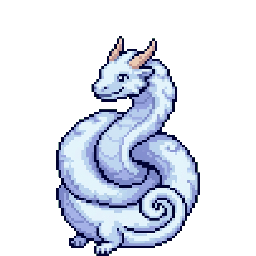
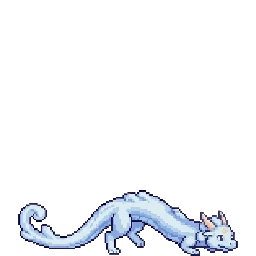
Restore cloud dragon poses and align hats with heads

diff --git a/src/petArt.ts b/src/petArt.ts
@@ -8,13 +8,13 @@ type AnchorRow = readonly [HeadAnchor, HeadAnchor, HeadAnchor, HeadAnchor];
 const h = (x: number, y: number, width = 27): HeadAnchor => ({ x, y, width });
 export const PET_HEAD_ANCHORS: Record<PetSpecies, readonly AnchorRow[]> = {
   cat: [
-    [h(47,21),h(29,48),h(23,47),h(31,61)], [h(43,22),h(28,52),h(20,49),h(29,60)],
-    [h(43,20),h(29,50),h(20,52),h(30,57)], [h(40,21),h(27,51),h(23,49),h(28,59)],
-    [h(42,22),h(28,52),h(23,49),h(31,61)], [h(47,20),h(28,52),h(23,47),h(31,58)],
+    [h(47,27),h(30,54),h(21,47),h(36,63)], [h(43,28),h(30,57),h(20,49),h(34,62)],
+    [h(43,26),h(30,55),h(20,50),h(35,61)], [h(40,27),h(29,56),h(20,43),h(32,62)],
+    [h(42,28),h(30,57),h(20,47),h(35,63)], [h(47,26),h(30,57),h(20,46),h(34,62)],
   ],
   munchkin: [
-    [h(48,21),h(28,49),h(75,53),h(29,59)], [h(72,30),h(28,53),h(20,47),h(28,60)],
-    [h(26,39),h(27,52),h(23,47),h(30,59)], [h(28,27),h(27,52),h(26,48),h(29,60)],
+    [h(48,27),h(30,55),h(75,52),h(34,62)], [h(72,30),h(28,53),h(20,47),h(28,60)],
+    [h(26,39),h(27,52),h(23,47),h(30,59)], [h(28,33),h(27,56),h(20,41),h(27,63)],
     [h(27,24),h(27,51),h(23,49),h(24,57)], [h(26,39),h(27,52),h(22,50),h(27,59)],
   ],
   monkey: [
@@ -30,7 +30,7 @@ export const PET_HEAD_ANCHORS: Record<PetSpecies, readonly AnchorRow[]> = {
   dragon: [
     [h(70,26,26),h(35,64,24),h(72,54,22),h(63,34,26)], [h(70,27,26),h(76,70,24),h(76,60,22),h(68,32,26)],
     [h(66,41,24),h(22,71,22),h(75,62,22),h(68,30,24)], [h(74,28,24),h(68,60,24),h(79,56,22),h(72,32,26)],
-    [h(67,32,26),h(73,31,24),h(78,58,22),h(68,33,26)], [h(50,26,22),h(53,51,20),h(62,27,19),h(57,24,20)],
+    [h(67,32,26),h(73,31,24),h(78,58,22),h(68,33,26)], [h(84,87,13),h(54,54,25),h(14,70,13),h(62,27,24)],
   ],
   trex: [
     [h(34,21),h(33,30),h(33,23),h(34,24)], [h(35,23),h(77,75),h(31,30),h(36,23)],
@@ -45,7 +45,7 @@ const HEAD_WIDTHS: Record<PetSpecies, readonly (readonly [number, number, number
   munchkin: [[34,29,20,25],[32,29,19,25],[31,29,20,26],[31,29,20,25],[31,29,21,25],[31,29,19,25]],
   monkey: [[33,31,32,32],[35,31,26,30],[34,33,34,33],[32,29,32,30],[35,29,27,30],[32,28,32,30]],
   chicken: [[35,35,31,35],[35,35,34,35],[35,35,31,35],[35,35,32,35],[35,35,31,35],[35,35,32,35]],
-  dragon: [[26,24,22,26],[26,24,22,26],[24,22,22,24],[24,24,22,26],[26,24,22,26],[22,20,19,20]],
+  dragon: [[26,24,22,26],[26,24,22,26],[24,22,22,24],[24,24,22,26],[26,24,22,26],[13,25,13,24]],
   trex: [[32,31,31,32],[32,27,30,32],[32,28,31,31],[32,28,31,31],[32,29,32,32],[31,28,31,31]],
 };
 export function headAnchor(species: PetSpecies, skin: number, pose: PetPose): HeadAnchor {
@@ -53,4 +53,10 @@ export function headAnchor(species: PetSpecies, skin: number, pose: PetPose): He
   const index = Number.isInteger(skin) && skin >= 0 && skin < rows.length ? skin : 0;
   const poseIndex = Math.max(0, PET_POSES.indexOf(pose));
   return { ...rows[index][poseIndex], width: HEAD_WIDTHS[species][index][poseIndex] };
+}
+
+// Las posturas originales de Nube tienen cabezas de tamaños muy distintos.
+// Reducimos las dos más grandes sin deformar ni recortar las ilustraciones.
+export function petPoseScale(species: PetSpecies, skin: number, pose: PetPose): number {
+  return species === 'dragon' && skin === 5 ? ({ sentado: 1, durmiendo: 0.52, andando: 1, jugando: 0.55 } as const)[pose] : 1;
 }

diff --git a/src/components/PetGame.tsx b/src/components/PetGame.tsx
@@ -3,7 +3,7 @@ import { ArrowRight, BookOpen, Check, Crown, Flame, LockKeyhole, Sparkles, Star,
 import type { Book } from '../types';
 import { effectivePet, PET_ACCESSORIES, PET_BACKGROUNDS, PET_SPECIES, petProgress, SKIN_THRESHOLDS, type PetChallenge, type PetSettings, type PetSpecies } from '../petGame';
 import { PixelPet } from './PixelPet';
-import { headAnchor, PET_POSES, type PetPose } from '../petArt';
+import { headAnchor, petPoseScale, PET_POSES, type PetPose } from '../petArt';
 import { PetAccessory } from './PetAccessory';
 import { ProgressBar } from './ui';
 
@@ -24,8 +24,10 @@ function PetScene({ pet, className = '', compact = false, interactive = false, o
   return <div className={`pet-scene relative overflow-hidden ${className}`}>
     <div className="pet-scene-sky" style={{ backgroundImage: `url(${PET_BACKGROUNDS.find(item => item.id === pet.background)?.image || PET_BACKGROUNDS[0].image})` }} />
     <div className={`pet-sprite absolute bottom-[5%] left-1/2 -translate-x-1/2 ${compact ? 'w-[90%] max-w-[200px]' : 'w-[52%] max-w-[240px]'}`}>
+      <div className="relative w-full" style={{ transform: `scale(${petPoseScale(pet.species, pet.skin, pose)})`, transformOrigin: 'bottom center' }}>
       <PixelPet species={pet.species} skin={pet.skin} pose={pose} className="w-full drop-shadow-[0_9px_2px_rgba(33,44,32,.3)]" />
       {accessory && <div className="absolute pointer-events-none drop-shadow-md" style={accessory.placement === 'side' ? { width: '28%', bottom: '2%', left: head.x > 50 ? '4%' : '72%' } : { width: `${head.width}%`, left: `${head.x}%`, top: `${head.y}%`, transform: `translate(-50%, ${[5, 14, 15, 16, 17, 20, 24].includes(accessory.kind) ? '-110%' : '-96%'})` }}><PetAccessory id={accessory.id} className="w-full" /></div>}
+      </div>
     </div>
     {interactive && <button type="button" onClick={advance} aria-label={`Saludar a ${petName(pet)} y cambiar postura`} className="absolute inset-x-[20%] bottom-0 h-[75%] rounded-full focus-visible:outline focus-visible:outline-2 focus-visible:outline-white" />}
   </div>;
